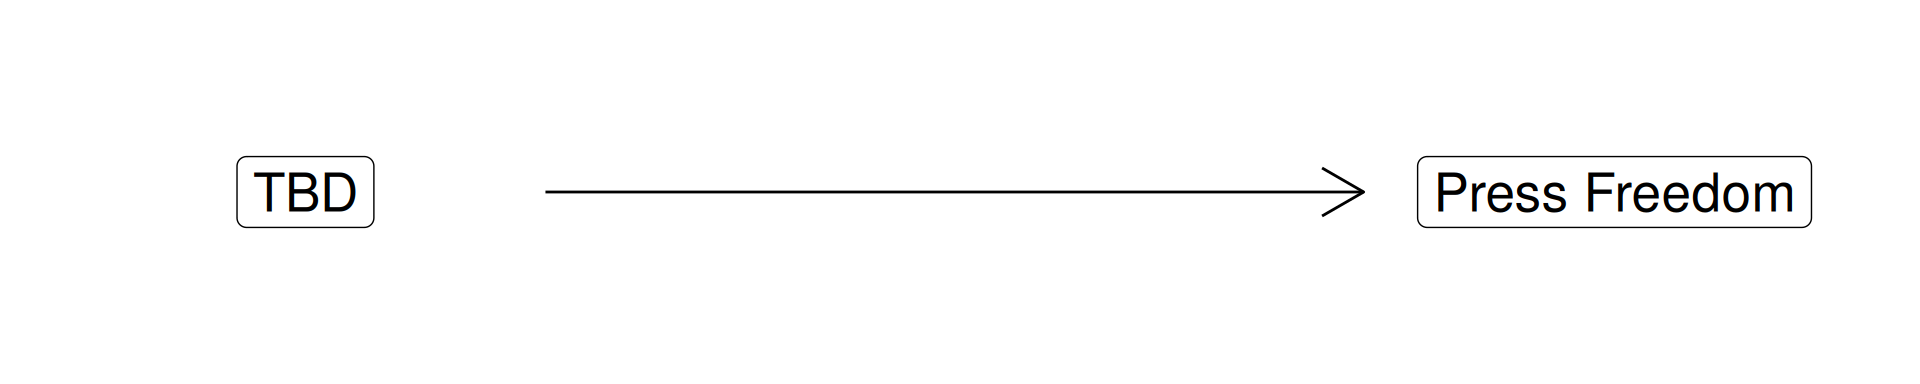
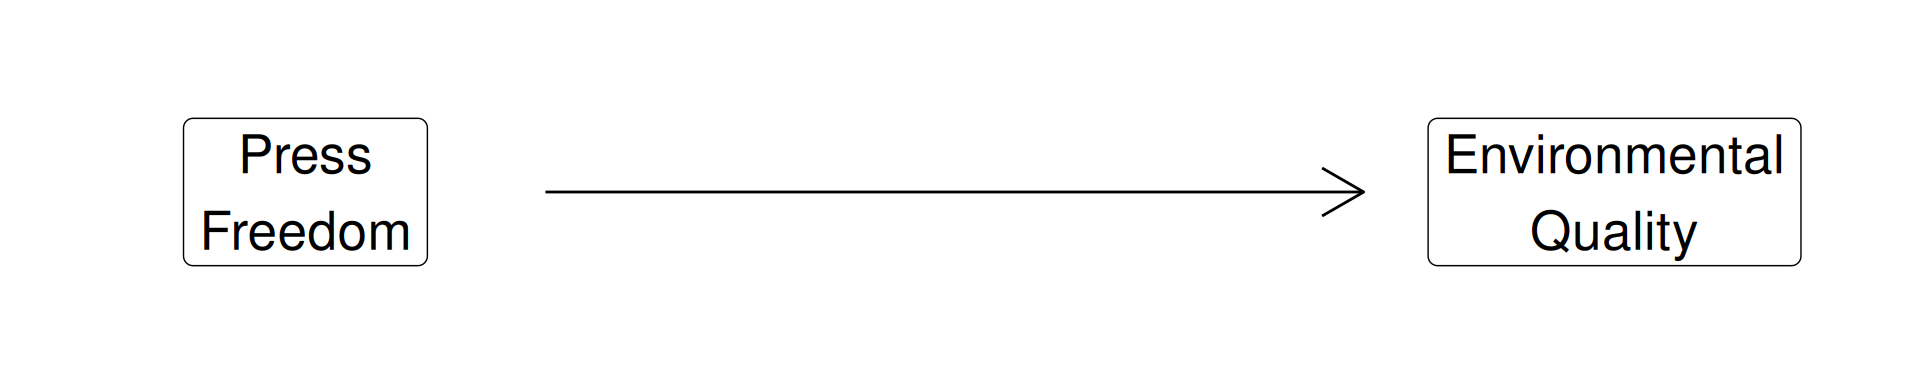
Update 8-1

diff --git a/08_1-Data2_Codebook.html b/08_1-Data2_Codebook.html
@@ -329,7 +329,10 @@
 <h2>Today’s Agenda</h2>
 <p><br></p>
 <div class="r-fit-text">
-<p>Critically analyze the second data project’s codebook</p>
+<p><strong>Critically analyze the second data project’s codebook</strong></p>
+<ul>
+<li>The Yale Environmental Performance Index (EPI)</li>
+</ul>
 </div>
 <p><br></p>
 <p><br></p>
@@ -362,22 +365,23 @@
           display:block!important;
       }</style></aside>
 </section>
-<section id="our-big-research-question" class="slide level2 center" data-background-image="Images/background-data_blue_v4.png">
-<h2>Our Big Research Question</h2>
+<section id="our-research-question" class="slide level2 center" data-background-image="Images/background-data_blue_v4.png">
+<h2>Our Research Question</h2>
 <p><br></p>
+<p><strong>Does a free press ensure better environmental quality around the world?</strong></p>
 
-<img data-src="08_1-Data2_Codebook_files/figure-revealjs/unnamed-chunk-2-1.png" width="960" class="r-stretch"><aside class="notes">
-<p>Research question brainstorming from Canvas forum</p>
+<img data-src="08_1-Data2_Codebook_files/figure-revealjs/unnamed-chunk-2-1.png" class="quarto-figure quarto-figure-center r-stretch" width="960"><aside class="notes">
+<p><strong>Is everybody happy with this research question?</strong></p>
 <ul>
-<li>…</li>
-</ul>
-<p><br></p>
-<p>Your Brainstorming</p>
-<ul>
-<li>…</li>
+<li><strong>Want to propose any changes?</strong></li>
 </ul>
 <p><br></p>
 <p><strong>SLIDE</strong>: Before we work to answer this research question, we need to deepen our expertise in the new data project!</p>
+<p><br></p>
+<p>Other ideas you brainstormed</p>
+<ul>
+<li>Does government transparency and accountability translate into better environmental quality?</li>
+</ul>
 <style type="text/css">
         span.MJX_Assistive_MathML {
           position:absolute!important;
@@ -429,11 +433,14 @@
 <section id="report-2" class="slide level2 center" data-background-image="Images/background-data_blue_v4.png">
 <h2>Report 2</h2>
 <p><br></p>
-<p><strong>What do we learn about the world from analyzing the XX produced by YY?</strong></p>
+<p><strong>What do we learn about the world from analyzing the Environmental Performance Index (EPI) produced by the Yale Center for Environmental Law &amp; Policy?</strong></p>
 <p><br></p>
 <p>The reader of your report is a non-expert in data analysis and is not familiar with this particular project, but is very interested in the topic.</p>
 <aside class="notes">
 <p><strong>Any questions on the big picture framing of your report?</strong></p>
+<ul>
+<li>The reader is a busy policy principal so you have to be concise!</li>
+</ul>
 <p><br></p>
 <p><strong>SLIDE</strong>: Report components</p>
 <style type="text/css">
@@ -451,12 +458,12 @@
 <section id="report-2-1" class="slide level2 center" data-background-image="Images/background-data_blue_v4.png">
 <h2>Report 2</h2>
 <p><br></p>
-<p><strong>What do we learn about the world from analyzing the XX produced by YY?</strong></p>
+<p><strong>What do we learn about the world from analyzing the Environmental Performance Index (EPI) produced by the Yale Center for Environmental Law &amp; Policy?</strong></p>
 <ol type="1">
 <li>The importance of the project in the real-world,</li>
 <li>The key contributors of uncertainty in the project’s data,</li>
 <li>What we learn about the current world from analyzing the most recently available data, and</li>
-<li>What we learn about the trajectory of XX in the world from analyzing the data across time</li>
+<li>What we learn about the trajectory of environmental quality in the world from analyzing the data across time</li>
 </ol>
 <aside class="notes">
 <p>In terms of structure and expectations it mirrors the work you did for the first report</p>
@@ -486,7 +493,7 @@
 </section>
 <section id="section-1" class="slide level2 center" data-background-image="Images/background-data_blue_v4.png">
 <h2></h2>
-<p><strong>What do we learn about the world from analyzing the XX produced by YY?</strong></p>
+<p><strong>What do we learn about the world from analyzing the Environmental Performance Index (EPI) produced by the Yale Center for Environmental Law &amp; Policy?</strong></p>
 <p><br></p>
 <p><strong>Premise 2: The key contributors of uncertainty?</strong></p>
 <ul>
@@ -502,23 +509,37 @@
 <li><strong>Need any clarifications before we get to work?</strong></li>
 </ul>
 <p><br></p>
-<p><strong>OPTION 1: Overall Analyses</strong></p>
-<p>**YOU PUT ON BOARD distributed around the room the five categories (Source, Operationalization, Instrument, Measurement, Validation) AND a header for Pro vs Con below each one*</p>
+<p><strong>OPTION 1: Overall Analysis - Strengths vs Weaknesses</strong></p>
 <ul>
+<li><p><em>Split class into small groups (3?)</em></p></li>
+<li><p>GROUPS, you have TEN minutes to build a list of STRENGTHS ONLY</p></li>
+<li><p><em>ON BOARD</em>: Report back - build list</p></li>
+<li><p>GROUPS, now you know the baseline stuff, back to the strengths! Five more minutes to deepen this list! I want a STRONG argument that represents the best of this project!</p></li>
+<li><p><em>ON BOARD</em>: Report back - build list</p></li>
+<li><p>GROUPS, you have now TEN minutes to build a list of WEAKNESSES</p></li>
+<li><p><em>ON BOARD</em>: Report back - build list</p></li>
+</ul>
+<p><br></p>
+<p><strong>How are we doing? Everybody have a ton of good notes?</strong></p>
+<p><br></p>
+<p><strong>SLIDE</strong>: Next class</p>
+<p><br></p>
+<p><strong>Other Options to Consider in Future</strong></p>
+<p><strong>OPTION 2: Round-robin</strong></p>
+<ul>
+<li><p>**YOU PUT ON BOARD distributed around the room the five categories (Source, Operationalization, Instrument, Measurement, Validation) AND a header for Pro vs Con below each one*</p></li>
 <li><p><em>Split class into five groups and assign to each category (to start!)</em></p></li>
 <li><p>Groups, you have FIVE minutes to add ONE pro and ONE con under your category. Go!</p></li>
 <li><p><em>Rotate groups through each other category: They must add one pro and one con to each category as they go (gets WAY harder as they go)</em></p></li>
 <li><p><em>PRESENT and DISCUSS each</em></p></li>
 </ul>
 <p><br></p>
-<p><strong>OPTION 2: Per Indicator Analyses</strong></p>
-<p><em>ON BOARD: X headers (one per indicator in the dataset) with space below each for two lists: Pro vs Con</em></p>
+<p><strong>OPTION 3: Per Indicator Analyses</strong></p>
 <ul>
+<li><p><em>ON BOARD: X headers (one per indicator in the dataset) with space below each for two lists: Pro vs Con</em></p></li>
 <li><p><em>Split class into groups per indicator and have them build pro and con lists for theirs</em></p></li>
 <li><p><em>PRESENT and DISCUSS each</em></p></li>
 </ul>
-<p><br></p>
-<p><strong>SLIDE</strong>: Next class</p>
 <style type="text/css">
         span.MJX_Assistive_MathML {
           position:absolute!important;

diff --git a/08_2-Data2_Importance_and_Audit.html b/08_2-Data2_Importance_and_Audit.html
@@ -365,7 +365,7 @@
 </section>
 <section id="report-2" class="slide level2 center" data-background-image="Images/background-data_blue_v4.png">
 <h2>Report 2</h2>
-<p><strong>What do we learn about the world from analyzing the XX produced by YY?</strong></p>
+<p><strong>What do we learn about the world from analyzing the Environmental Performance Index (EPI) produced by the Yale Center for Environmental Law &amp; Policy?</strong></p>
 <p><br></p>
 <p><strong>Premise 1: Why is this project important?</strong></p>
 <ul>
@@ -444,13 +444,13 @@
 </section>
 <section id="report-2-2" class="slide level2 center" data-background-image="Images/background-data_blue_v4.png">
 <h2>Report 2</h2>
-<p><strong>What do we learn about the world from analyzing the X produced by Y?</strong></p>
+<p><strong>What do we learn about the world from analyzing the Environmental Performance Index (EPI) produced by the Yale Center for Environmental Law &amp; Policy?</strong></p>
 <p><br></p>
 <h3 id="premise-3"><strong>Premise 3</strong></h3>
 <ul>
 <li><p><strong>What do we learn about the current world from analyzing the most recently available data?</strong></p>
 <ul>
-<li>All indicators (2024?)</li>
+<li>All indicators and index (2024)</li>
 </ul></li>
 </ul>
 <aside class="notes">
@@ -480,20 +480,26 @@
 </section>
 <section id="report-2-3" class="slide level2 center" data-background-image="Images/background-data_blue_v4.png">
 <h2>Report 2</h2>
-<p><strong>What do we learn about the world from analyzing the X produced by Y?</strong></p>
+<p><strong>What do we learn about the world from analyzing the Environmental Performance Index (EPI) produced by the Yale Center for Environmental Law &amp; Policy?</strong></p>
 <p><br></p>
 <h3 id="premise-4"><strong>Premise 4</strong></h3>
 <ul>
-<li><p><strong>What do we learn about the trajectory of X in the world from analyzing the data across time?</strong></p>
+<li><p><strong>What do we learn about the trajectory of environmental quality in the world from analyzing the data across time?</strong></p>
 <ul>
-<li><p>All indicators (2022-2024)</p></li>
-<li><p>Global index (2015-2024)</p></li>
+<li>Each indicator (1995 - 2022)</li>
 </ul></li>
 </ul>
 <aside class="notes">
+<p>Per EPI:</p>
+<ul>
+<li><p>Can I assemble the releases of the EPI into a time series or panel dataset?</p></li>
+<li><p>No.&nbsp;Because the underlying methodology and data change between versions of the EPI, it is not appropriate to assemble the scores from each release into a time series. If you wish to analyze longitudinal data on environmental performance, historic time series for many indicators are available on our downloads page.</p></li>
+<li><p>So, zip file on Canvas has data on each indicator across time (1995 - 2022)</p></li>
+</ul>
+<p><br></p>
 <p>Ok everybody, let’s build a big list of ideas that could help us answer this question</p>
 <ul>
-<li>So, focused on the 2024 data, what specific visualizations or descriptive statistics could we make?</li>
+<li>So, focused on the indicator data, what specific visualizations or descriptive statistics could we make?</li>
 </ul>
 <p><br></p>
 <p><em>ON BOARD: Make a table</em></p>

diff --git a/08_3-Report2_Work.html b/08_3-Report2_Work.html
@@ -328,7 +328,7 @@
 <section id="todays-agenda" class="slide level2 center" data-background-image="Images/background-data_blue_v4.png">
 <h2>Today’s Agenda</h2>
 <p><br></p>
-<p><strong>What do we learn about the world from analyzing the X produced by Y?</strong></p>
+<p><strong>What do we learn about the world from analyzing the Environmental Performance Index (EPI) produced by the Yale Center for Environmental Law &amp; Policy?</strong></p>
 <ul>
 <li>Finish and submit the second report</li>
 </ul>
@@ -392,7 +392,7 @@
 <section id="report-2" class="slide level2 center" data-background-image="Images/background-data_blue_v4.png">
 <h2>Report 2</h2>
 <p><br></p>
-<p><strong>What do we learn about the world from analyzing the XX produced by YY?</strong></p>
+<p><strong>What do we learn about the world from analyzing the Environmental Performance Index (EPI) produced by the Yale Center for Environmental Law &amp; Policy?</strong></p>
 <p><br></p>
 <p>The reader of your report is a non-expert in data analysis and is not familiar with this particular project, but is very interested in the topic.</p>
 <aside class="notes">
@@ -414,12 +414,12 @@
 <section id="report-2-1" class="slide level2 center" data-background-image="Images/background-data_blue_v4.png">
 <h2>Report 2</h2>
 <p><br></p>
-<p><strong>What do we learn about the world from analyzing the XX produced by YY?</strong></p>
+<p><strong>What do we learn about the world from analyzing the Environmental Performance Index (EPI) produced by the Yale Center for Environmental Law &amp; Policy?</strong></p>
 <ol type="1">
 <li>The importance of the project in the real-world,</li>
 <li>The key contributors of uncertainty in the project’s data,</li>
 <li>What we learn about the current world from analyzing the most recently available data, and</li>
-<li>What we learn about the trajectory of XX in the world from analyzing the data across time</li>
+<li>What we learn about the trajectory of environmental quality in the world from analyzing the data across time</li>
 </ol>
 <aside class="notes">
 <p>In terms of structure and expectations it mirrors the work you did for the first report</p>

diff --git a/09_1-Bivariate_Descriptives.html b/09_1-Bivariate_Descriptives.html
@@ -427,11 +427,12 @@
           display:block!important;
       }</style></aside>
 </section>
-<section id="research-question-tbd" class="slide level2 center" data-background-image="Images/background-data_blue_v4.png">
-<h2>Research question TBD</h2>
+<section id="our-research-question" class="slide level2 center" data-background-image="Images/background-data_blue_v4.png">
+<h2>Our Research Question</h2>
 <p><br></p>
+<p><strong>Does a free press ensure better environmental quality around the world?</strong></p>
 
-<img data-src="09_1-Bivariate_Descriptives_files/figure-revealjs/unnamed-chunk-2-1.png" width="960" class="r-stretch"><aside class="notes">
+<img data-src="09_1-Bivariate_Descriptives_files/figure-revealjs/unnamed-chunk-2-1.png" class="quarto-figure quarto-figure-center r-stretch" width="960"><aside class="notes">
 <p>As we build toward answering our research question with data we will need to pick up some new concepts and tools!</p>
 <ul>
 <li><p>New concepts: Probability and correlation</p></li>
